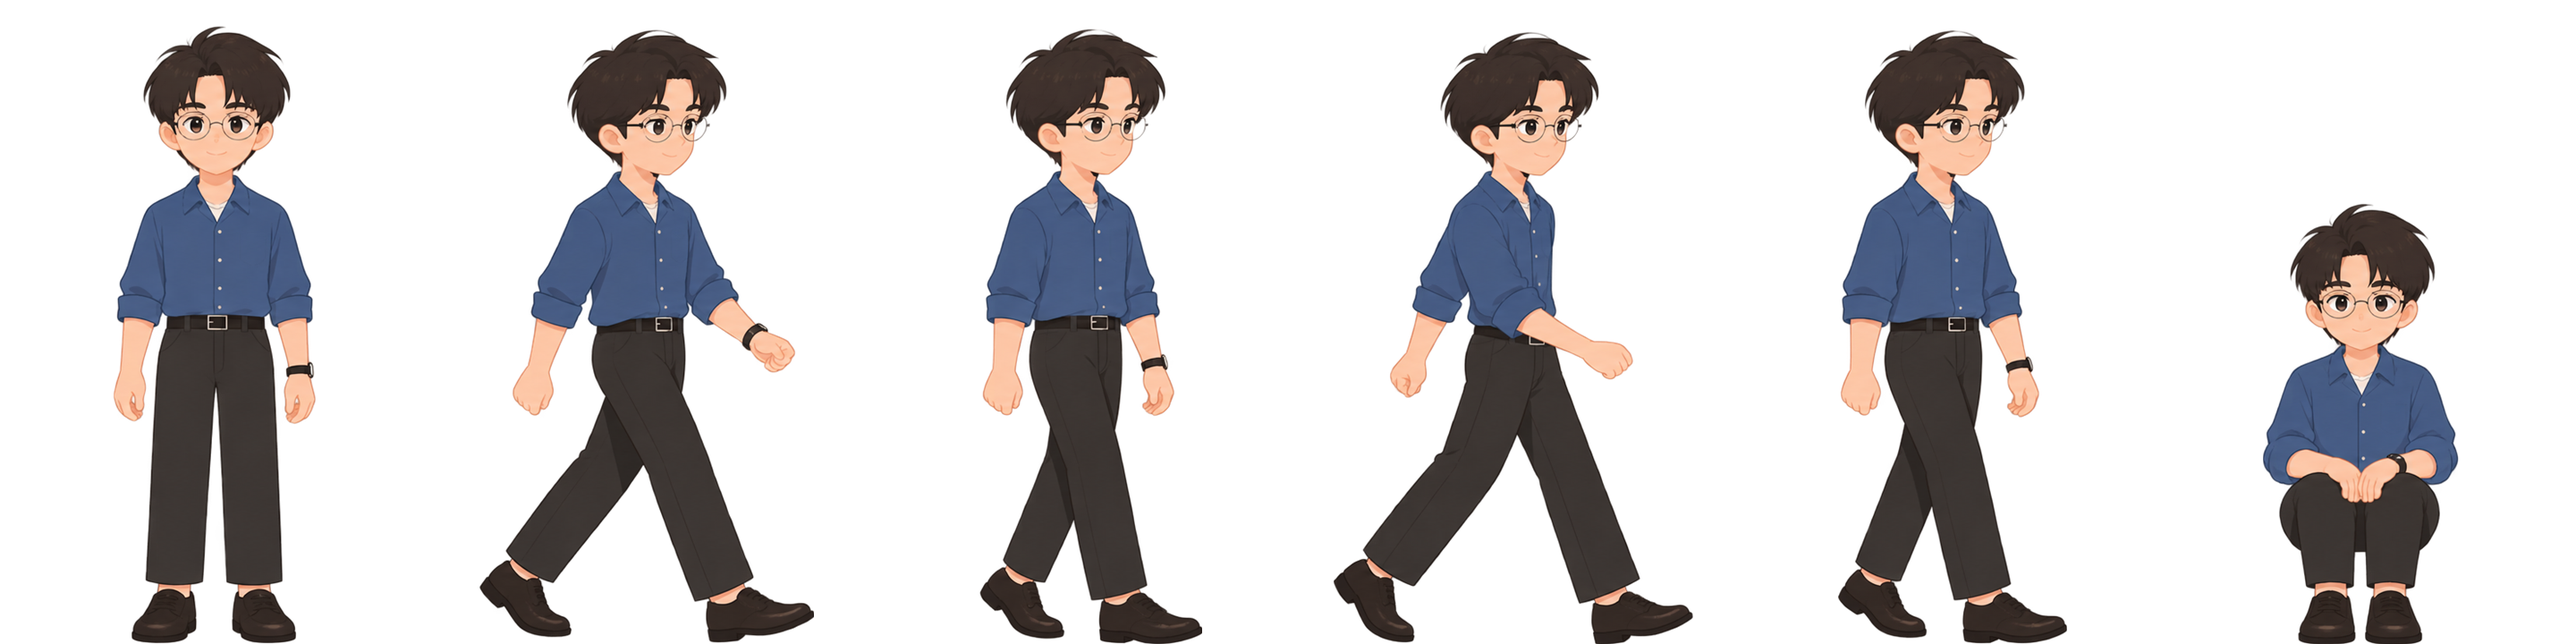
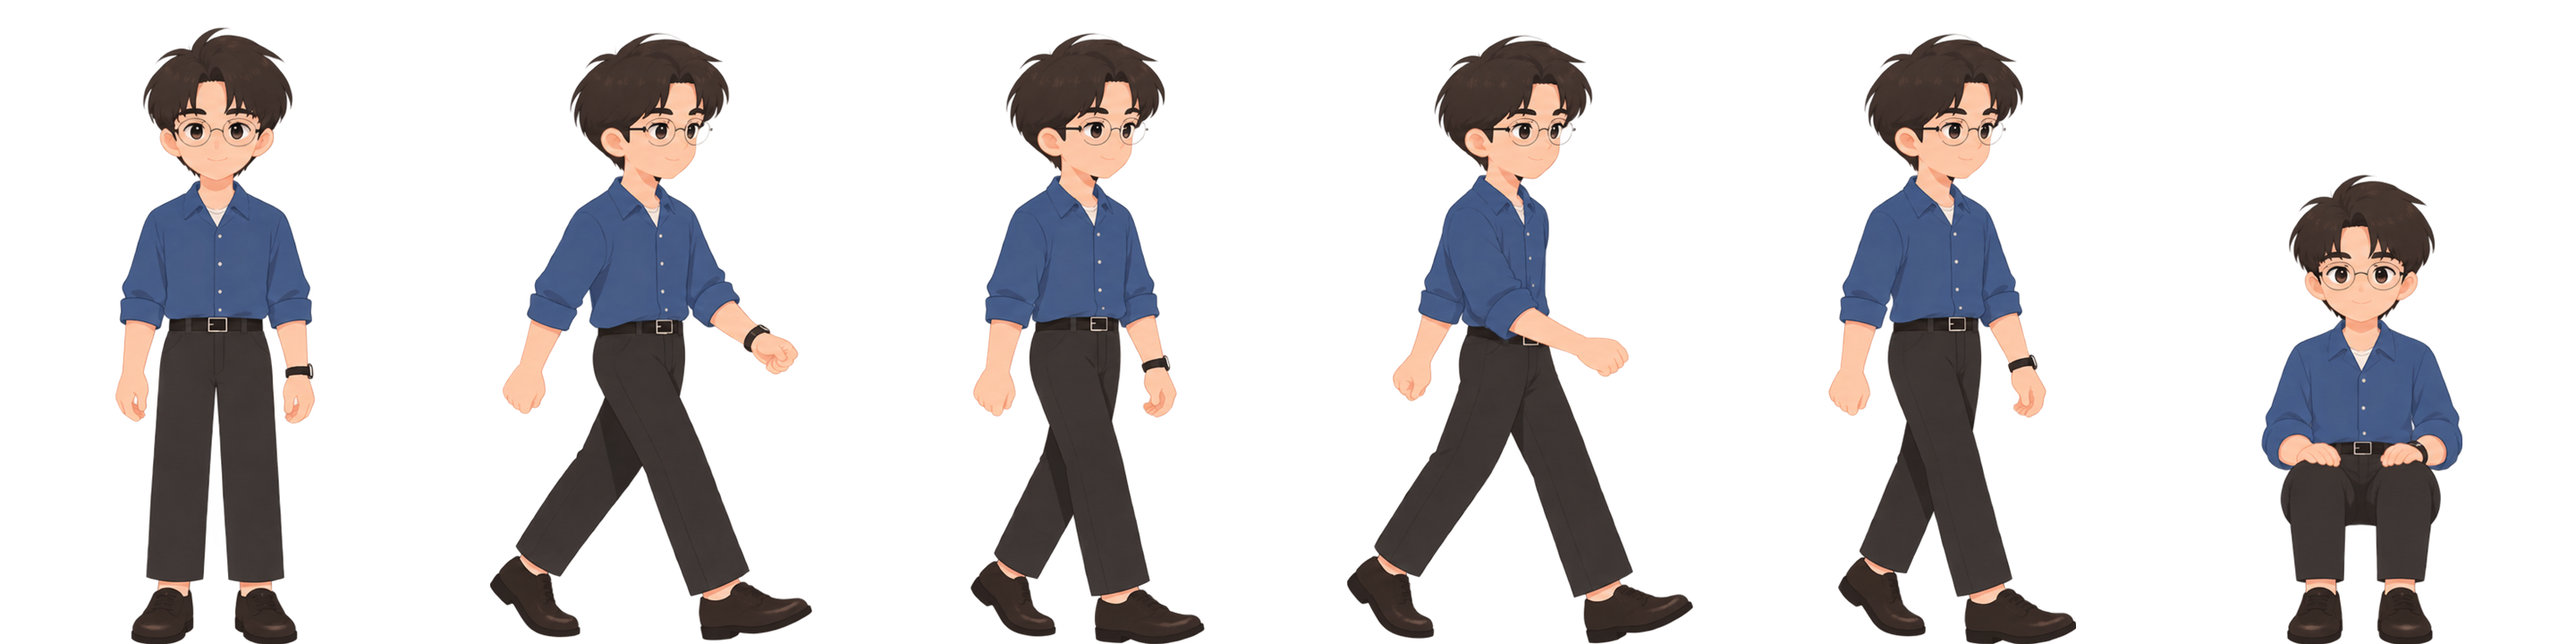
Edit sitting poses

diff --git a/web/src/office/art/manifest.ts b/web/src/office/art/manifest.ts
@@ -25,7 +25,7 @@ import cast4 from './cast/cast-4.png';
  * └──────────────────────────────────────────────────────────────────────────┘
  *
  * ┌──────────────────────────────────────────────────────────────────────────┐
- * │ ⚠ FILE NAMES ARE A CONTRACT WITH `scripts/normalise-art`.               │
+ * │ ⚠ FILE NAMES ARE A CONTRACT WITH `scripts/cut-cast.ps1`.                │
  * │                                                                          │
  * │   art/cast/cast-N.png      one strip per character, six cells            │
  * │   art/furniture/<name>.png one file per floor object                     │
@@ -158,14 +158,27 @@ const IN_HOUSE = {
  * Shorter than `CAST` ⇒ it wraps, so a ten-strong office runs on five strips
  * until more are drawn.
  */
+/**
+ * ⚠ `sitH` IS MEASURED OFF THE SHIPPED PNG, and `scripts/cut-cast.ps1` prints it
+ * on every cut. Re-cut a sheet without copying the new number here and the seated
+ * figure floats or sinks — silently, and only when somebody happens to be resting.
+ *
+ * 07/09: c1…c4 re-rolled (v4) for the SIT POSE alone. The seated figures came back
+ * at 0.762…0.782 of standing height against c0's 0.792, where v3 had them at
+ * 0.649…0.723. The correction that used to be worth up to 28 world units is now
+ * worth 6, and `MAX_SIT_LIFT` came down with it.
+ *
+ * ⚠ THE WHOLE SHEET WAS REPLACED, NOT THE SIT CELL — §2 of the art spec: a re-roll
+ * replaces the sheet or nothing. c0 was not re-rolled and keeps its v3 strip.
+ */
 export const SPRITES: readonly CastSprite[] = [
   { src: cast0, ...IN_HOUSE, sitH: 546 },
-  { src: cast1, ...IN_HOUSE, sitH: 532 },
+  { src: cast1, ...IN_HOUSE, sitH: 546 },
   // 1.1, not 1.2 — seen at the shipping size, a fifth taller made them the tall
   // ones instead of the short ones, which is the same complaint from the other end.
-  { src: cast2, ...IN_HOUSE, scale: 1.1, sitH: 532 },
-  { src: cast3, ...IN_HOUSE, scale: 1.1, sitH: 532 },
-  { src: cast4, ...IN_HOUSE, scale: 1.1, sitH: 532 },
+  { src: cast2, ...IN_HOUSE, scale: 1.1, sitH: 546 },
+  { src: cast3, ...IN_HOUSE, scale: 1.1, sitH: 546 },
+  { src: cast4, ...IN_HOUSE, scale: 1.1, sitH: 546 },
 ];
 
 /** The tallest seated figure. Everybody else is raised to meet it. */

diff --git a/src/core/cast.ts b/src/core/cast.ts
@@ -161,9 +161,15 @@ export const FACE_COUNT = 5;
  * │ with a shorter `sit` cell and the app fails loudly on the line that      │
  * │ loads the room, rather than seating somebody on the chess pieces six     │
  * │ weeks later. Raising it is a decision about the floor plan, not a nudge. │
+ * │                                                                          │
+ * │ ⚠ 12, DOWN FROM 30 ON 07/09, and the ceiling had to come down with the   │
+ * │ art. `CHESS_SEAT` is built from this number, so slack here is a player   │
+ * │ pushed that far forward of the stool they are supposed to be sitting on. │
+ * │ The v4 sit cells need 6 units at worst; 12 is one re-roll of headroom,   │
+ * │ not a number chosen to never have to think again.                       │
  * └──────────────────────────────────────────────────────────────────────────┘
  */
-export const MAX_SIT_LIFT = 30;
+export const MAX_SIT_LIFT = 12;
 
 /**
  * 🔴 WHO LOOKS LIKE WHOM, WITH NO TWO ALIKE WHILE ANY FACE IS STILL FREE.

diff --git a/src/core/office-floor.ts b/src/core/office-floor.ts
@@ -245,8 +245,8 @@ const CHESS = { x: BREAK_AREA.x + 70, baseY: BREAK_AREA.y + 450 };
 // of floor wide enough that the stool stopped belonging to the table; 100 was still
 // reading as *near* the table rather than *at* it. The gap has to be visible and
 // small, and the seat follows the stool because it is derived from it.
-const CHESS_FAR = { x: CHESS.x, baseY: CHESS.baseY - 84 };
-const CHESS_NEAR = { x: CHESS.x, baseY: CHESS.baseY + 42 };
+const CHESS_FAR = { x: CHESS.x, baseY: CHESS.baseY - 60 };
+const CHESS_NEAR = { x: CHESS.x, baseY: CHESS.baseY + 36 };
 // ⚠ Pushed right, away from the chess set: two game tables 170 units apart read
 // as one cluttered corner. 210 apart, each is its own thing. It cannot go further
 // — its RIGHT-hand player would stand past the edge of the floor patch.

diff --git a/docs/SPEC-office-art.md b/docs/SPEC-office-art.md
@@ -1143,6 +1143,47 @@ carry more of that height in hair and head, which reads as a shorter person at t
 same total height — a **proportion** difference, and no amount of re-cutting would
 change it.
 
+### ✅ 07/09 — c1…c4 re-rolled for the sit pose, and the SHEET was the unit
+
+The seated poses were bad on four of the five. New sheets came back (`castN.4.png`)
+and the tempting move was the one §2 forbids in capitals: **cut out the new `sit`
+cell and paste it into the shipped strip.** It was not taken, and this time the
+reasoning is worth separating from §2's, because §2's own measurement does **not**
+apply here:
+
+- §2 measured a spliced cell inside the **walk cycle** — a wristwatch blinking 6.5
+  times a second at `steps(4)`. The `sit` cell is never in that cycle.
+- What *does* still apply is slower and just as real: a person standing and then
+  sitting would change hair volume, hem and skin tone between two states seconds
+  apart, from two different generations of the same character.
+
+⇒ The four sheets were replaced whole. **c0 was not re-rolled and keeps its v3
+strip** — the unit is the sheet, not the cast.
+
+| | v3 `sit/stand` | **v4** |
+|---|---|---|
+| c0 (untouched) | 0.792 | — |
+| c1 | 0.723 | **0.782** |
+| c2 | 0.713 | **0.762** |
+| c3 | 0.721 | **0.772** |
+| c4 | **0.649** | **0.775** |
+
+The correction below is now worth **6 world units at worst instead of 28**, and
+`MAX_SIT_LIFT` came down 30 → 12 with it — slack in that ceiling is a chess player
+pushed that far forward of the stool they are sitting on.
+
+⚠ **`scripts/cut-cast.ps1` is now in the repository.** It was living in a scratch
+folder while `manifest.ts` claimed the file names were "a contract with
+`scripts/normalise-art`" — a script that did not exist. A pipeline that only exists
+in somebody's temp directory is a pipeline that will be lost the first time the
+folder is cleaned, and the three numbers it normalises (standing height, ground
+line, hip anchor) are not recoverable by eye. Windows-only and deliberately outside
+the product: it runs by hand when art arrives and nothing that ships imports it.
+
+⚠ It **prints `sitH` on every cut**, because that number has to be copied into
+`manifest.ts` in the same change. A re-cut without it leaves the seated figure
+floating or sunk, silently, and only when somebody happens to be resting.
+
 ### 🔴 The `sit` cell is the one cell that has to leave the anchor
 
 Same shape of problem, opposite answer, and this time the measurement **predicted the
@@ -1154,10 +1195,11 @@ figures are **not the same height**:
 
 | c0 | c1 | c2 | c3 | c4 |
 |---|---|---|---|---|
-| 546 | 498 | 492 | 497 | **448** |
+| 546 | ~~498~~ 539 | ~~492~~ 525 | ~~497~~ 532 | ~~**448**~~ 535 |
 
-A seated c4 is 98 strip-pixels shorter than a seated c0 while both start at the same
-line, so it **sinks into the seat**. The user reported exactly this, unprompted:
+(v3 struck through; v4 measured after the re-roll above.) On v3 a seated c4 was 98
+strip-pixels shorter than a seated c0 while both started at the same line, so it
+**sank into the seat**. The user reported exactly this, unprompted:
 *"characters 2, 3 and 4 a little; 5 is the worst"* — which is c1/c2/c3 a little and c4
 the worst, and c0 not mentioned at all. The numbers and the complaint are the same fact.
 
